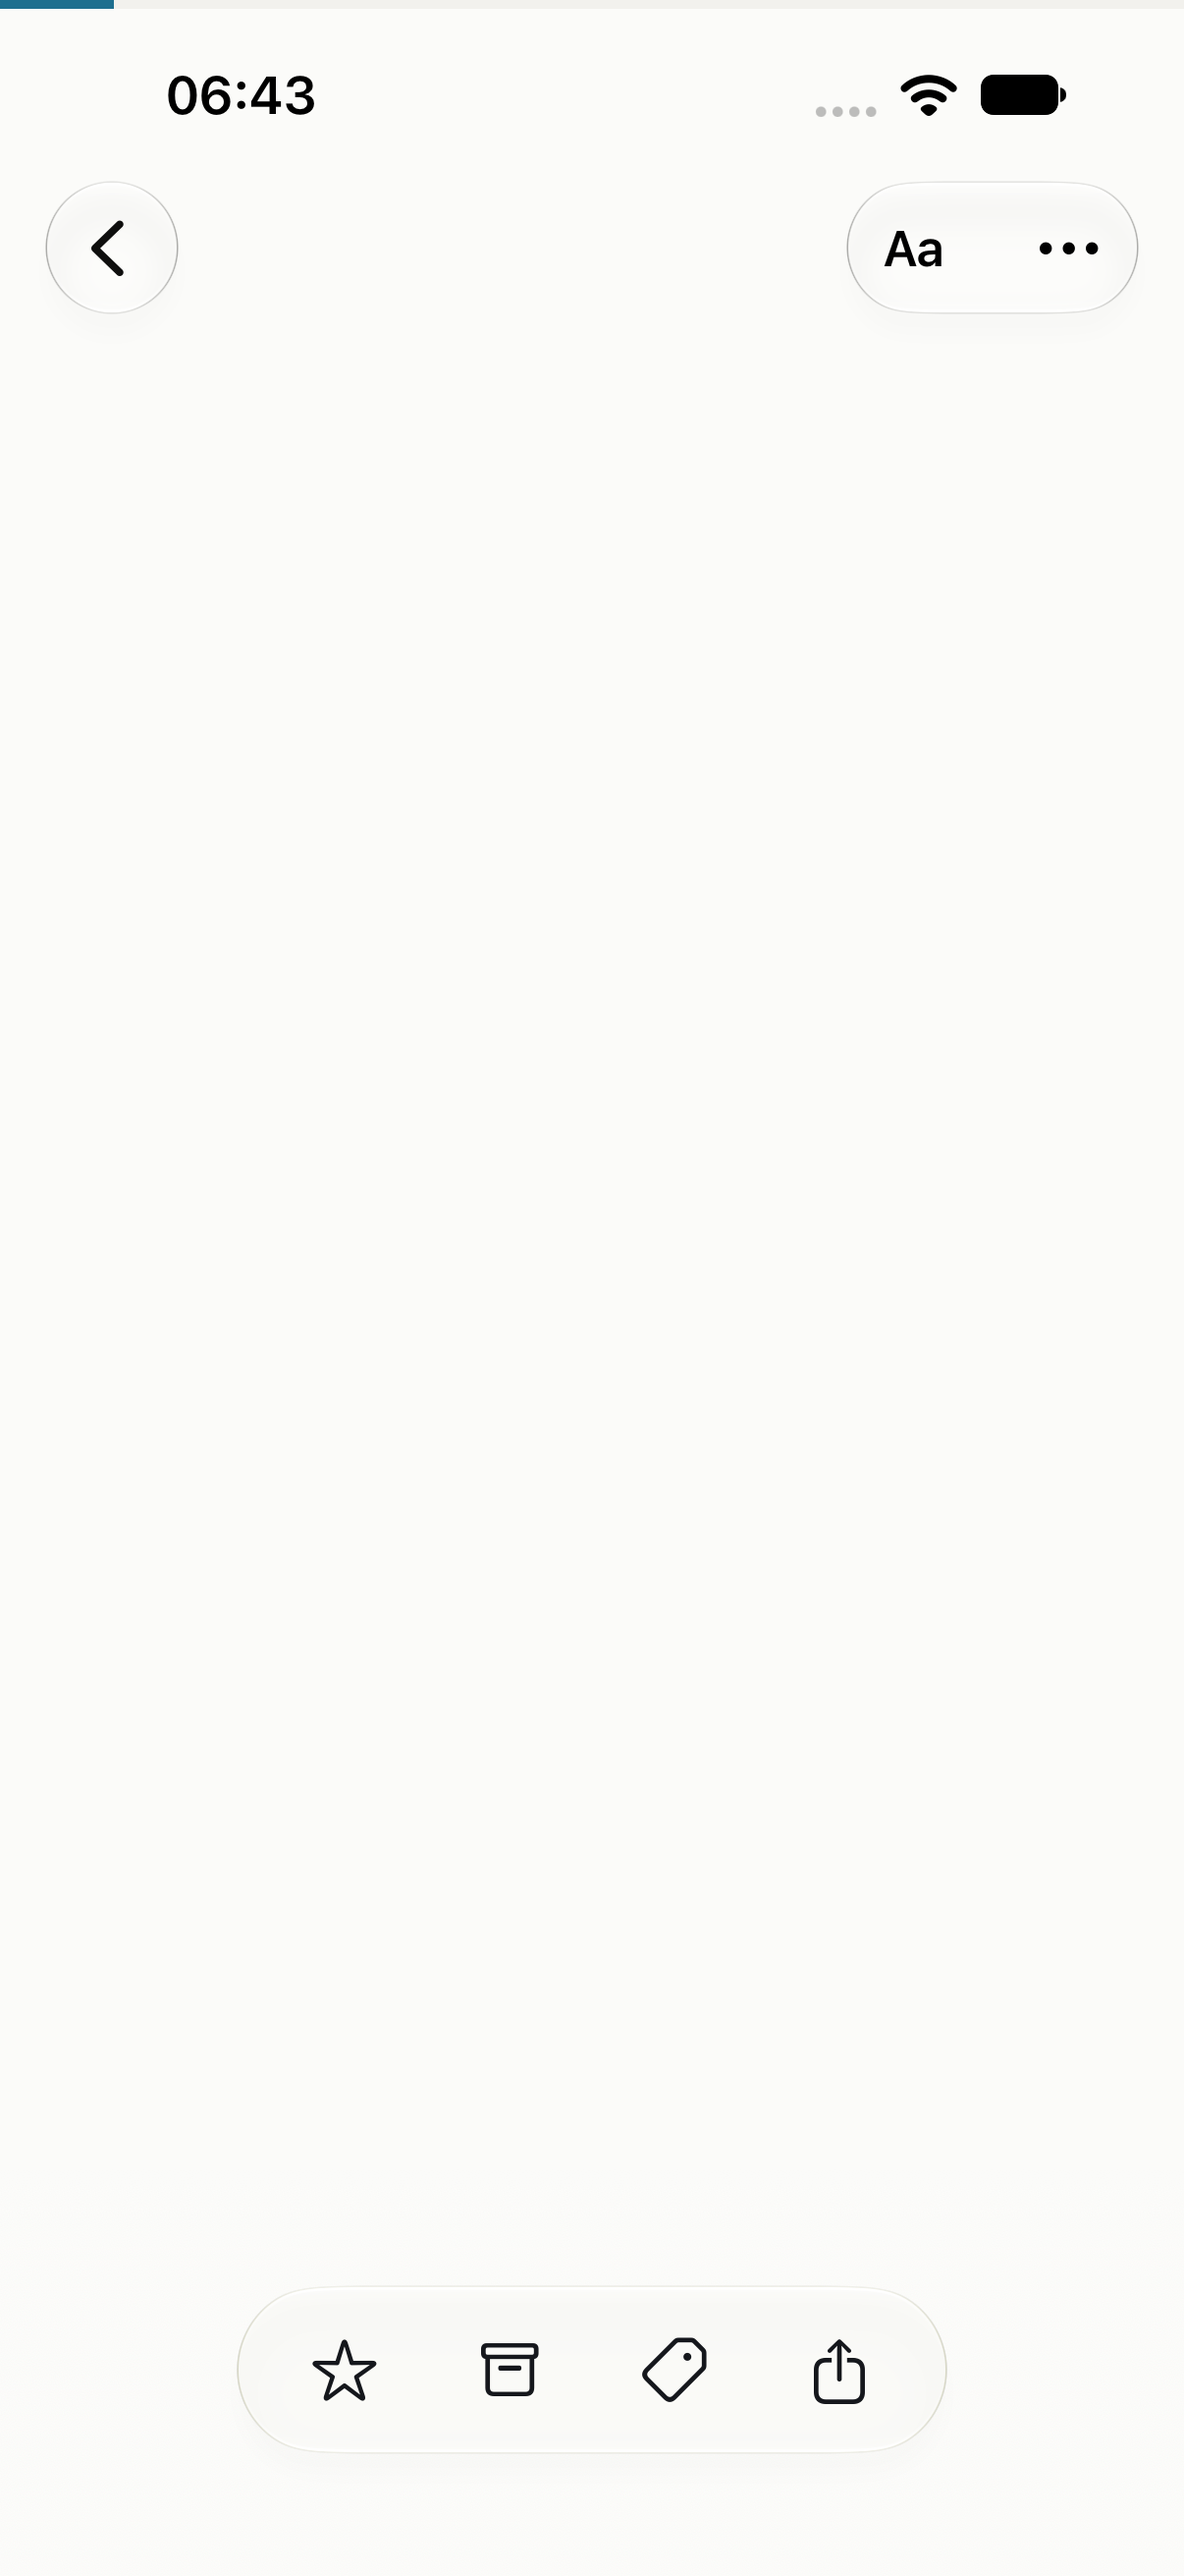
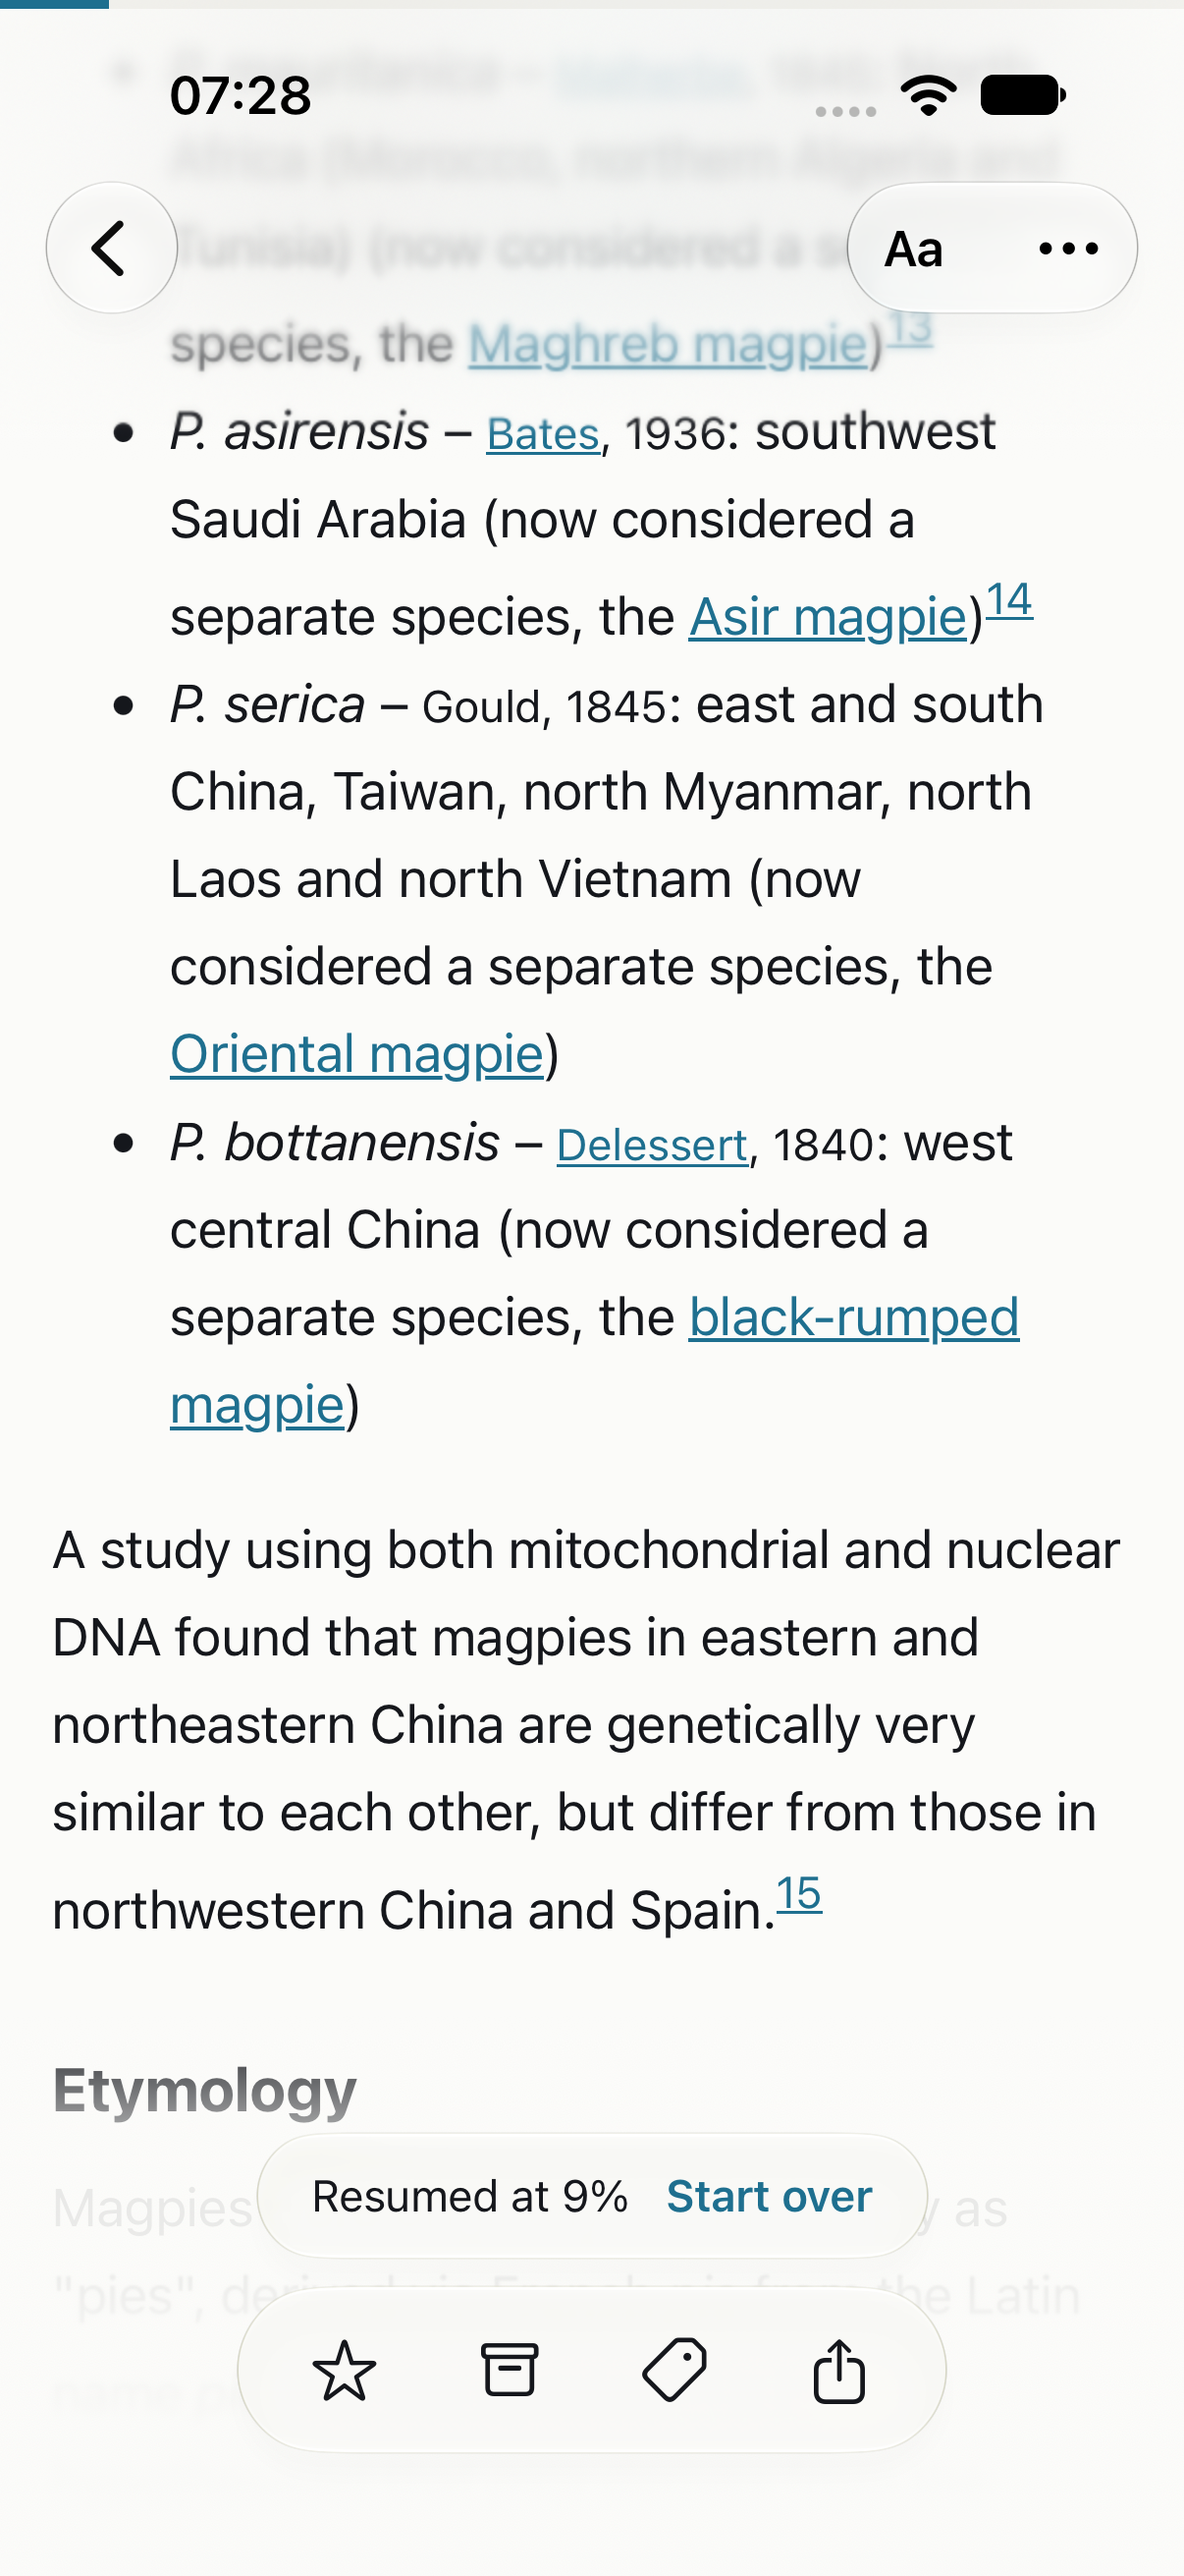
fix(ios): reader header rests below the floating controls; opening header while the page loads
The web view is full screen, so the title sat under the back and Aa buttons and was blurred by the top edge
effect. The scroll view now has a top content inset equal to the safe area: the header rests below the controls
and only scrolls under them. A theme or text change at the top no longer re-anchors the page past the header
(the appearance script re-anchors only when scrolled).

The page is blank for about 1.2-1.4 s on the simulator between pushing the reader and the first paint, on first
open and on reopening alike. A native copy of the header (site, title, meta) now fills that gap and fades out once
the page is displayed. Journey b takes the reopened-reader shot early (b5a), takes b5 only when the 'Resumed at N%'
notice is up, and adds the dark top-of-page shot (b3-reader-top-dark).

diff --git a/apps/ios/Modules/Sources/ReaderFeature/ReaderView.swift b/apps/ios/Modules/Sources/ReaderFeature/ReaderView.swift
@@ -42,6 +42,9 @@ struct ReaderScreen: View {
     @Binding var safari: SafariDestination?
     @Binding var sheetHeight: CGFloat
     @Environment(\.colorScheme) private var colorScheme
+    /// Space the floating top controls (status bar and toolbar) take while they are shown. The page rests below it
+    /// and scrolls under it. Kept while the toolbar is hidden, so hiding it does not move the text.
+    @State private var topInset: CGFloat = 0
 
     private var theme: EffectiveTheme {
         EffectiveTheme.resolve(model.appearance.preferences.readerTheme, systemDark: colorScheme == .dark)
@@ -54,9 +57,14 @@ struct ReaderScreen: View {
             theme.palette.background.ignoresSafeArea()
             if model.appearance.isLoaded {
                 ReaderContent(
-                    model: model, theme: theme, originalURL: originalURL, isChromeVisible: $isChromeVisible,
-                    onOpenLink: { safari = SafariDestination(url: $0) })
+                    model: model, theme: theme, originalURL: originalURL, topInset: topInset,
+                    isChromeVisible: $isChromeVisible, onOpenLink: { safari = SafariDestination(url: $0) })
             }
+        }
+        .onGeometryChange(for: CGFloat.self) {
+            $0.safeAreaInsets.top
+        } action: { inset in
+            if isChromeVisible || inset > topInset { topInset = inset }
         }
         .overlay(alignment: .top) {
             if model.isReaderShown {
@@ -108,10 +116,36 @@ private struct ReaderContent: View {
     let model: ReaderViewModel
     let theme: EffectiveTheme
     let originalURL: URL?
+    let topInset: CGFloat
     @Binding var isChromeVisible: Bool
     let onOpenLink: (URL) -> Void
+    /// The article page has painted (the opening header gives way to it).
+    @State private var pageDisplayed = false
 
     var body: some View {
+        ZStack(alignment: .top) {
+            stateContent
+            // The page takes about a second to load and paint, so the title is up from the first frame.
+            if showsOpeningHeader, let header {
+                ReaderOpeningHeader(header: header, theme: theme, topInset: topInset)
+                    .ignoresSafeArea()  // same frame as the full-screen web view; topInset already counts the safe area
+                    // Up at once, fades out when the page takes over.
+                    .transition(.asymmetric(insertion: .identity, removal: .opacity))
+            }
+        }
+        .animation(.easeOut(duration: 0.15), value: showsOpeningHeader)
+    }
+
+    private var showsOpeningHeader: Bool {
+        guard !model.isPdf else { return false }
+        switch model.state {
+        case .loading: return true
+        case .ready: return !pageDisplayed
+        default: return false
+        }
+    }
+
+    @ViewBuilder private var stateContent: some View {
         switch model.state {
         case .loading, .missing:
             Color.clear
@@ -121,6 +155,7 @@ private struct ReaderContent: View {
                 restore: model.restorePoint(),
                 appearance: webAppearance,
                 header: header,
+                topInset: topInset,
                 endPaddingPx: model.endsWithCard ? ReaderHtml.endCardPaddingPx : ReaderHtml.defaultEndPaddingPx,
                 scrollToTopRequest: model.scrollToTopRequest,
                 onProgress: { model.readingPositionReported($0) },
@@ -131,7 +166,10 @@ private struct ReaderContent: View {
                 },
                 onOpenLink: onOpenLink,
                 onProcessTerminated: { model.webProcessTerminated() },
-                onLoaded: { model.articleDisplayed() }
+                onLoaded: {
+                    pageDisplayed = true
+                    model.articleDisplayed()
+                }
             )
             .ignoresSafeArea()
         case .pdfReady(let file):

diff --git a/apps/ios/UITests/SrokaJourneyTests.swift b/apps/ios/UITests/SrokaJourneyTests.swift
@@ -46,6 +46,14 @@ final class SrokaJourneyTests: XCTestCase {
         let body = web.staticTexts.containing(NSPredicate(format: "label CONTAINS[c] %@", Journey.articleWord))
         expect(body.firstMatch, "article text with '\(Journey.articleWord)'", timeout: 40, app: app)
         shot("b3-reader-top")
+        // The header (title, meta line) rests below the floating back and Aa buttons, sharp, at the top of the page.
+        XCTAssertGreaterThan(
+            screens.titleTop(in: web), screens.topControlsBottom(),
+            "the article header starts below the floating top controls")
+        // The same page in the dark theme (chosen in the reader's own appearance sheet, restored below).
+        screens.chooseReaderTheme("Dark")
+        shot("b3-reader-top-dark")
+        screens.chooseReaderTheme("Auto")
 
         for _ in 0..<4 { web.swipeUp() }
         let progress = screens.readingProgress()
@@ -59,13 +67,18 @@ final class SrokaJourneyTests: XCTestCase {
         let screens2 = Screens(app: app2, test: self)
         screens2.ensureSignedIn()
         screens2.waitForArticleRow().tap()
-        expect(
+        let web2 = expect(app2.webViews.firstMatch, "reader web view after reopening", timeout: 40, app: app2)
+        shot("b5a-reader-reopening")  // as early as the reader is there: the page may still be loading
+        // b5 is taken once the notice is on screen and article text is hittable, never before.
+        let toast = expect(
             app2.staticTexts.containing(NSPredicate(format: "label CONTAINS[c] %@", "Resumed at")).firstMatch,
-            "'Resumed at N%' toast after reopening", timeout: 40, app: app2)
-        // The notice must not outrun the page: the text is on screen the moment "Resumed at N%" shows.
+            "'Resumed at N%' toast after reopening", timeout: 20, app: app2)
+        XCTAssertTrue(toast.isHittable, "the resume notice is on screen")
+        usleep(300_000)  // the toast has finished sliding in
         shot("b5-reader-resumed")
+        // The text query is slow (the toast stays about 6 s), so it follows the shot; nothing scrolls in between.
         XCTAssertGreaterThan(
-            screens2.visibleBodyTexts(in: app2.webViews.firstMatch), 0,
+            screens2.visibleBodyTexts(in: web2), 0,
             "article text is on screen when the resume notice shows, not only in the DOM")
         XCTAssertGreaterThan(screens2.readingProgress(), 0, "the progress line starts where the reader left")
     }

diff --git a/apps/ios/UITests/JourneySupport.swift b/apps/ios/UITests/JourneySupport.swift
@@ -253,6 +253,40 @@ struct Screens {
         back.tap()
     }
 
+    /// Top edge (screen points) of the article title in the page header.
+    func titleTop(in web: XCUIElement) -> CGFloat {
+        let title = web.staticTexts.matching(NSPredicate(format: "label == %@", Journey.articleTitle)).firstMatch
+        test.expect(title, "article title in the page header", app: app)
+        return title.frame.minY
+    }
+
+    /// Bottom edge (screen points) of the floating back / Aa / more buttons.
+    func topControlsBottom() -> CGFloat {
+        let buttons = app.navigationBars.buttons
+        var bottom: CGFloat = 0
+        for index in 0..<buttons.count { bottom = max(bottom, buttons.element(boundBy: index).frame.maxY) }
+        return bottom
+    }
+
+    /// The reader's own appearance sheet (Aa): pick a theme swatch by its label, then close the sheet.
+    func chooseReaderTheme(_ name: String) {
+        let aa = app.buttons["Appearance"].firstMatch
+        if !aa.isHittable { app.webViews.firstMatch.tap() }  // the chrome is hidden: a tap on the page shows it
+        test.expect(aa, "Aa (appearance) button", app: app)
+        aa.tap()
+        let swatch = app.buttons.matching(NSPredicate(format: "label CONTAINS[c] %@", name)).firstMatch
+        test.expect(swatch, "theme swatch \(name)", app: app)
+        swatch.tap()
+        // Drag the fitted sheet down by its title (the sheet starts about half way down the screen).
+        let title = app.staticTexts["Appearance"].firstMatch
+        let from =
+            title.exists
+            ? title.coordinate(withNormalizedOffset: CGVector(dx: 0.5, dy: 0.5))
+            : app.coordinate(withNormalizedOffset: CGVector(dx: 0.5, dy: 0.52))
+        from.press(forDuration: 0.1, thenDragTo: app.coordinate(withNormalizedOffset: CGVector(dx: 0.5, dy: 0.99)))
+        XCTAssertTrue(test.waitForDisappearance(of: swatch), "the appearance sheet closes")
+    }
+
     func openSettings() {
         let avatar = app.buttons["Settings"].firstMatch
         test.expect(avatar, "Settings (avatar) button", app: app)

diff --git a/apps/ios/Modules/Sources/ReaderFeature/ArticleWebView.swift b/apps/ios/Modules/Sources/ReaderFeature/ArticleWebView.swift
@@ -64,6 +64,8 @@ struct ArticleWebView: UIViewRepresentable {
     let restore: RestorePoint
     let appearance: WebAppearance
     let header: ReaderHeader?
+    /// Space under the floating top controls: the page rests below it and scrolls under it (soft edge effect).
+    let topInset: CGFloat
     let endPaddingPx: Int
     let scrollToTopRequest: Int
     let onProgress: (ProgressReport) -> Void
@@ -192,6 +194,7 @@ final class ArticleWebViewCoordinator: NSObject, WKNavigationDelegate, UIGesture
     func update(from view: ArticleWebView, webView: WKWebView) {
         parent = view
         applyBackground(view.appearance.theme, to: webView)
+        applyTopInset(view.topInset, to: webView)
         if loadedDocument != view.document {
             load(view, into: webView)
             return
@@ -225,6 +228,18 @@ final class ArticleWebViewCoordinator: NSObject, WKNavigationDelegate, UIGesture
         webView.backgroundColor = color
         webView.scrollView.backgroundColor = color
         webView.overrideUserInterfaceStyle = theme.isDark ? .dark : .light
+    }
+
+    /// The web view fills the screen, so without an inset the header would start under the status bar and toolbar.
+    /// A page resting at its top stays at its top when the inset changes; a scrolled page keeps its place.
+    private func applyTopInset(_ inset: CGFloat, to webView: WKWebView) {
+        let scrollView = webView.scrollView
+        guard scrollView.contentInset.top != inset else { return }
+        let atRest = scrollView.contentOffset.y <= -scrollView.contentInset.top + 1
+        scrollView.contentInsetAdjustmentBehavior = .never
+        scrollView.contentInset.top = inset
+        scrollView.verticalScrollIndicatorInsets.top = inset
+        if atRest { scrollView.contentOffset.y = -inset }
     }
 
     private func load(_ view: ArticleWebView, into webView: WKWebView) {

diff --git a/apps/ios/Modules/Sources/ReaderFeature/ReaderHtml.swift b/apps/ios/Modules/Sources/ReaderFeature/ReaderHtml.swift
@@ -220,7 +220,7 @@ enum ReaderHtml {
         if(window.ResizeObserver){new ResizeObserver(function(){if(atEnd()!==lastEnd&&document.readyState==="complete")report()}).observe(root)}
         function start(){restore();if(fits())report();setTimeout(function(){restore();if(fits())report()},300)}
         if(document.readyState==="complete"){start()}else{addEventListener("load",start)}
-        window.__srokaSetAppearance=function(theme,scale,font,lh){var a=firstVisible();root.setAttribute("data-theme",theme);root.setAttribute("data-font",font);root.style.setProperty("--scale",scale);root.style.setProperty("--lh",lh);if(a!==null)toAnchor(a)};
+        window.__srokaSetAppearance=function(theme,scale,font,lh){var a=firstVisible();root.setAttribute("data-theme",theme);root.setAttribute("data-font",font);root.style.setProperty("--scale",scale);root.style.setProperty("--lh",lh);if(a!==null&&sc().scrollTop>1)toAnchor(a)};
         window.__srokaSetHeader=function(raw){var h;try{h=JSON.parse(raw)}catch(e){return}var head=document.querySelector(".sk-head");var old=document.getElementById("sk-pct");var pct=old?old.textContent:"0%";if(!head){head=document.createElement("header");head.className="sk-head";document.body.insertBefore(head,document.body.firstChild)}
         while(head.firstChild)head.removeChild(head.firstChild);
         function div(c,t){var d=document.createElement("div");d.className=c;if(t!==undefined)d.textContent=t;head.appendChild(d);return d}

diff --git a/apps/ios/Modules/Sources/ReaderFeature/ReaderStatusViews.swift b/apps/ios/Modules/Sources/ReaderFeature/ReaderStatusViews.swift
@@ -149,3 +149,27 @@ struct OpenOriginalButton: View {
         }
     }
 }
+
+/// The article header (site, title, meta line) in native text while the page loads: same place, size and colours as
+/// the page's own header, so the page takes over without a jump. Hidden from accessibility (the page has the text).
+struct ReaderOpeningHeader: View {
+    let header: ReaderHeader
+    let theme: EffectiveTheme
+    let topInset: CGFloat
+
+    var body: some View {
+        VStack(alignment: .leading, spacing: 14) {
+            Text(header.site).font(.system(size: 14, weight: .medium)).foregroundStyle(theme.palette.link)
+            Text(header.title).font(.system(size: 28, weight: .semibold)).lineSpacing(0)
+            Text(header.metaPrefix.trimmingCharacters(in: CharacterSet(charactersIn: " ·")))
+                .font(.system(size: 14)).opacity(0.65)
+        }
+        .foregroundStyle(theme.palette.text)
+        .padding(.horizontal, 17.6)
+        .padding(.top, topInset + 20)
+        .frame(maxWidth: 720, alignment: .leading)
+        .frame(maxWidth: .infinity, maxHeight: .infinity, alignment: .top)
+        .accessibilityHidden(true)
+        .allowsHitTesting(false)
+    }
+}
